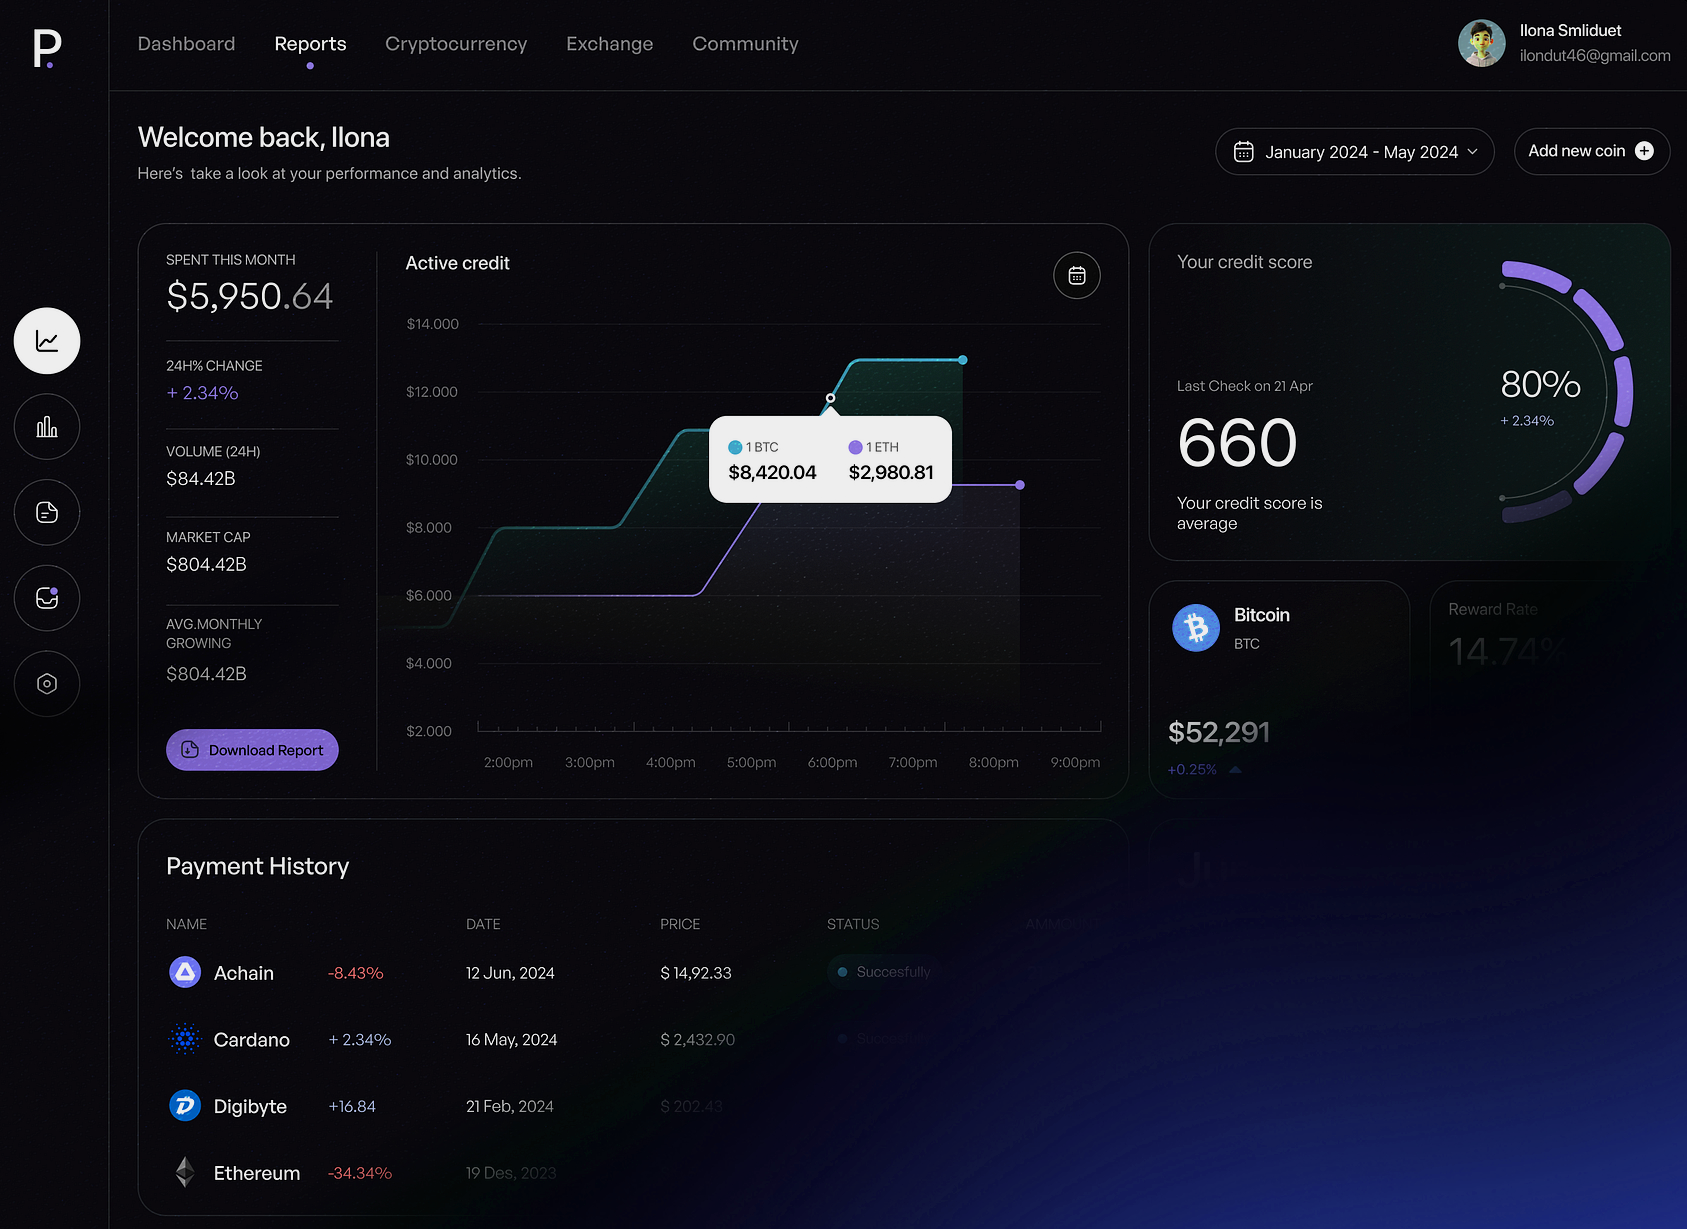
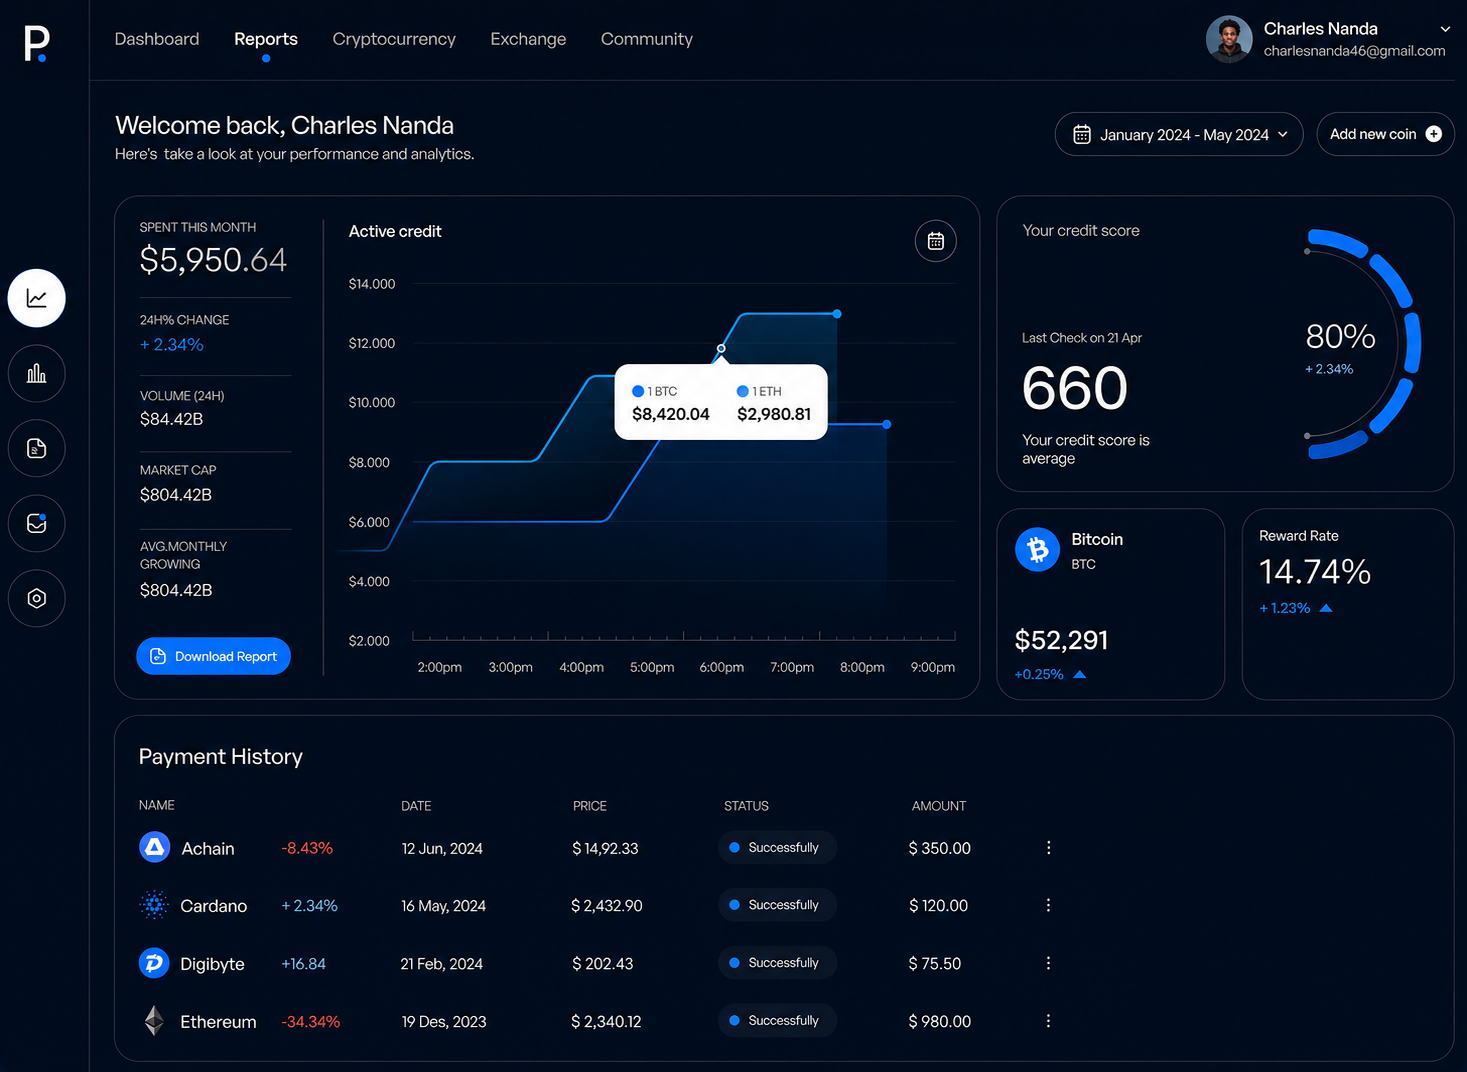
commit

diff --git a/src/sections/HeroSection.jsx b/src/sections/HeroSection.jsx
@@ -1,0 +1,71 @@
+import { ArrowRight, Command } from "lucide-react"
+
+
+const HeroSection = () => {
+  return (
+    <section className="relative container mx-auto px-4 pt-40 pb-20">
+        {/* Decorative: Sub-Title */}
+
+        <div className="flex w-fit py-2 mb-4 px-4 cursor-pointer
+                rounded-full glass">
+            <span className="text-sm font-medium text-zinc-300">
+                <Command className="w-4 h-4 inline-block mr-2"/>
+                Next-gen Forex Trading Platform
+            </span>
+        </div>
+
+        {/* Hero Text */}
+
+        <div className="max-w-4xl relative z-10">
+            {/* Heading */}
+            <h1 className="text-5xl md:text-7xl mb-4 tracking-tight text-left">
+                <span className="clash-display grad1">
+                    Trade Forex with
+                </span>
+                <br />
+                <span className="text-zinc-50 font-medium">
+                    Confidence & Security
+                </span>
+            </h1>
+
+            {/* Para */}
+            <p className="text-lg text-zinc-300/80 mb-8 max-w-2xl text-left">
+                Experience seamless forex trading with advanced features, real=time 
+                analytics, and institutional-grade security.
+
+                <span className="text-zinc-200">
+                    Start trading in minutes.
+                </span>
+            </p>
+
+            {/* Buttons */}
+            <div className="col sm:flex-row gap-4 items-start">
+                <button className="bg-blue-500 text-base clash-display
+                px-4 py-3 rounded-full cursor-point hover:-translate-y-1
+                transition2 hover:bg-blue-500/20">
+                    Star Trading Now
+                </button>
+
+                <button className="text-zinc-50 text-base clash-display glass
+                px-4 centered-row gap-2 py-3 rounded-full cursor-pointer
+                hover:-translate-y-1 transition2 hover:bg-blue-500/20">
+                    View Markets <ArrowRight className=""/>
+                </button>
+            </div>
+
+        </div>
+
+        {/* Hero Image: UI Image */}
+
+        <div className="relative mx-auto max-w-5xl mt-20">
+            <div className="glass rounded-xl overflow-hidden">
+                <img src="/chart2.png" alt="hero_image" className="w-full h-auto" />
+            </div>
+        </div>
+
+        {/* ---END SECT--- */}
+    </section>
+  
+)}
+
+export default HeroSection

diff --git a/src/sections/FeaturesSection.jsx b/src/sections/FeaturesSection.jsx
@@ -1,0 +1,56 @@
+
+const FeaturesSection = () => {
+  return (
+    <section className="container mx-auto px-4 py-24">
+        {/* Title */}
+        <div className="max-w-2xl mb-20">
+            <h2 className="text-5xl md:text-6xl mb-6 tracking-tight 
+            clash-display text-left">
+                Advanced Trading
+                <br />
+                <span className="font-mediu clash-display grad1">
+                    Features & Tools
+                </span>
+            </h2>
+
+            <p className="">
+                Experience professional-grade trading tools and features
+                designed for both novice and experienced crypto traders.
+            </p>
+        </div>
+
+        {/* Features Content */}
+        <div className="">
+            <div className="">
+                {/* Left: Tab Triggers */}
+                <div className="">
+                    {/* Icon */}
+                    <div className=""></div>
+                    {/* Content */}
+                    <div className="">
+                        <h3 className="">
+                            Feature Title
+                        </h3>
+
+                        <p className="">
+                            Lorem ipsum dolor sit amet consectetur,
+                            adipisicing elit. Mollitia consectetur 
+                            ut aspernatur vitae optio impedit.
+                        </p>
+                    </div>
+
+                </div>
+                {/* Right: Tab Images*/}
+                <div className="">
+                    <div className="">
+
+                    </div>
+                </div>
+
+            </div>
+        </div>
+    </section>
+  )
+}
+
+export default FeaturesSection;

diff --git a/src/sections/LogoCarousel.jsx b/src/sections/LogoCarousel.jsx
@@ -1,0 +1,62 @@
+import { motion } from "framer-motion";
+
+const LogoCarousel = () => {
+  const logos = [
+    "/log1.png",
+    "/log2.png",
+    "/log3.png",
+    "/log4.png",
+    "/log5.png",
+  ];
+
+  const extendedLogos = [...logos, ...logos, ...logos];
+
+  return (
+    <div
+      className="w-full overflow-hidden cursor-pointer bg-[#050505] backdrop-blur-sm py-12 mt-20"
+    >
+      <motion.div
+        className="flex space-x-16"
+        style={{
+          width: "fit-content",
+          display: "flex",
+          gap: "4rem",
+        }}
+        initial={{
+          opacity: 0,
+          x: "0%",
+        }}
+        animate={{
+          opacity: 1,
+          x: "-50%",
+        }}
+        transition={{
+          opacity: { duration: 0.5 },
+          x: {
+            duration: 15,
+            repeat: Infinity,
+            ease: "linear",
+            delay: 0.5,
+          },
+        }}
+      >
+        {extendedLogos.map((item, index) => (
+          <motion.img
+            key={`${item}-${index}`}
+            src={item}
+            alt="logo"
+            className="h-8 object-contain"
+            initial={{ opacity: 0.5 }}
+            whileHover={{
+              opacity: 1,
+              scale: 1.05,
+              transition: { duration: 0.2 },
+            }}
+          />
+        ))}
+      </motion.div>
+    </div>
+  );
+};
+
+export default LogoCarousel;

diff --git a/src/components/NavBar.jsx b/src/components/NavBar.jsx
@@ -1,11 +1,31 @@
 import {Command} from "lucide-react";
+import { useState, useEffect } from "react";
 
 
 const NavBar = () => {
+  const [isScrolled, setIsScrolled] = useState(false)
+
+  // Scroll Effect On NavBar
+
+  useEffect(()=>{
+    const handleScroll = () => {
+      setIsScrolled(window.scrolly > 50)
+    }
+
+    window.addEventListener("scroll", handleScroll)
+
+    return () => window.removeEventListener("scroll", handleScroll)
+
+  },[])
+
   return (
-      <header className="fixed cursor-pointer top-3.5 left-1/2
-      -translate-x-1/2 z-50 transition-all duration-300 rounded-full h-14
-      bg-[#1b1b1b] border border-white/10 scale--95 w-[90%] max-w-2xl">
+      <header className={`fixed cursor-pointer top-3.5 left-1/2
+      -translate-x-1/2 z-50 transition-all duration-300 rounded-full ${
+
+        isScrolled 
+        ? "h-14 bg-[#1b1b1b]/40 backdrop-blur-xl border border-white/10 scale w-[95%] max-w-2xl" 
+        : "h-14 bg-[#1b1b1b] w-[95%] max-w-3xl"
+      }`}>
 
         <div className="mx-auto h-full px-6">
 

diff --git a/src/pages/HomePage.jsx b/src/pages/HomePage.jsx
@@ -1,0 +1,23 @@
+// Section Imports
+import FeaturesSection from "../sections/FeaturesSection";
+import HeroSection from "../sections/HeroSection";
+import LogoCarousel from "../sections/LogoCarousel";
+
+
+const HomePage = () => {
+  return (
+    <div className="bg-black mx-auto">
+    {/* Hero Section */}
+      <HeroSection />
+
+    {/* Logo Carousel Section */}  
+    <LogoCarousel />
+
+    {/* Features Section */}
+    <FeaturesSection />
+
+    </div>
+  );
+};
+
+export default HomePage;

diff --git a/index.html b/index.html
@@ -4,7 +4,7 @@
     <meta charset="UTF-8" />
     <link rel="icon" type="image/svg+xml" href="/favicon.svg" />
     <meta name="viewport" content="width=device-width, initial-scale=1.0" />
-    <title>forexpoint</title>
+    <title>ForexPoint</title>
   </head>
   <body>
     <div id="root"></div>

diff --git a/src/App.jsx b/src/App.jsx
@@ -1,9 +1,13 @@
 import NavBar from "./components/NavBar";
+import HomePage from "./pages/HomePage";
 
 const App = () => {
   return (
     <div className="text-zinc-100 bg-black p-4">
       <NavBar />
+      <div className=''>
+        <HomePage />
+      </div>
     </div>
   );
 };

diff --git a/src/index.css b/src/index.css
@@ -213,7 +213,7 @@ a.active hr {
   }
 
   .grad1 {
-    @apply text-transparent bg-gradient-to-tr bg-clip-text from-indigo-100 to-indigo-400;
+    @apply text-transparent bg-gradient-to-tr bg-clip-text from-blue-100 to-blue-400;
   }
 
   .link-hover {
